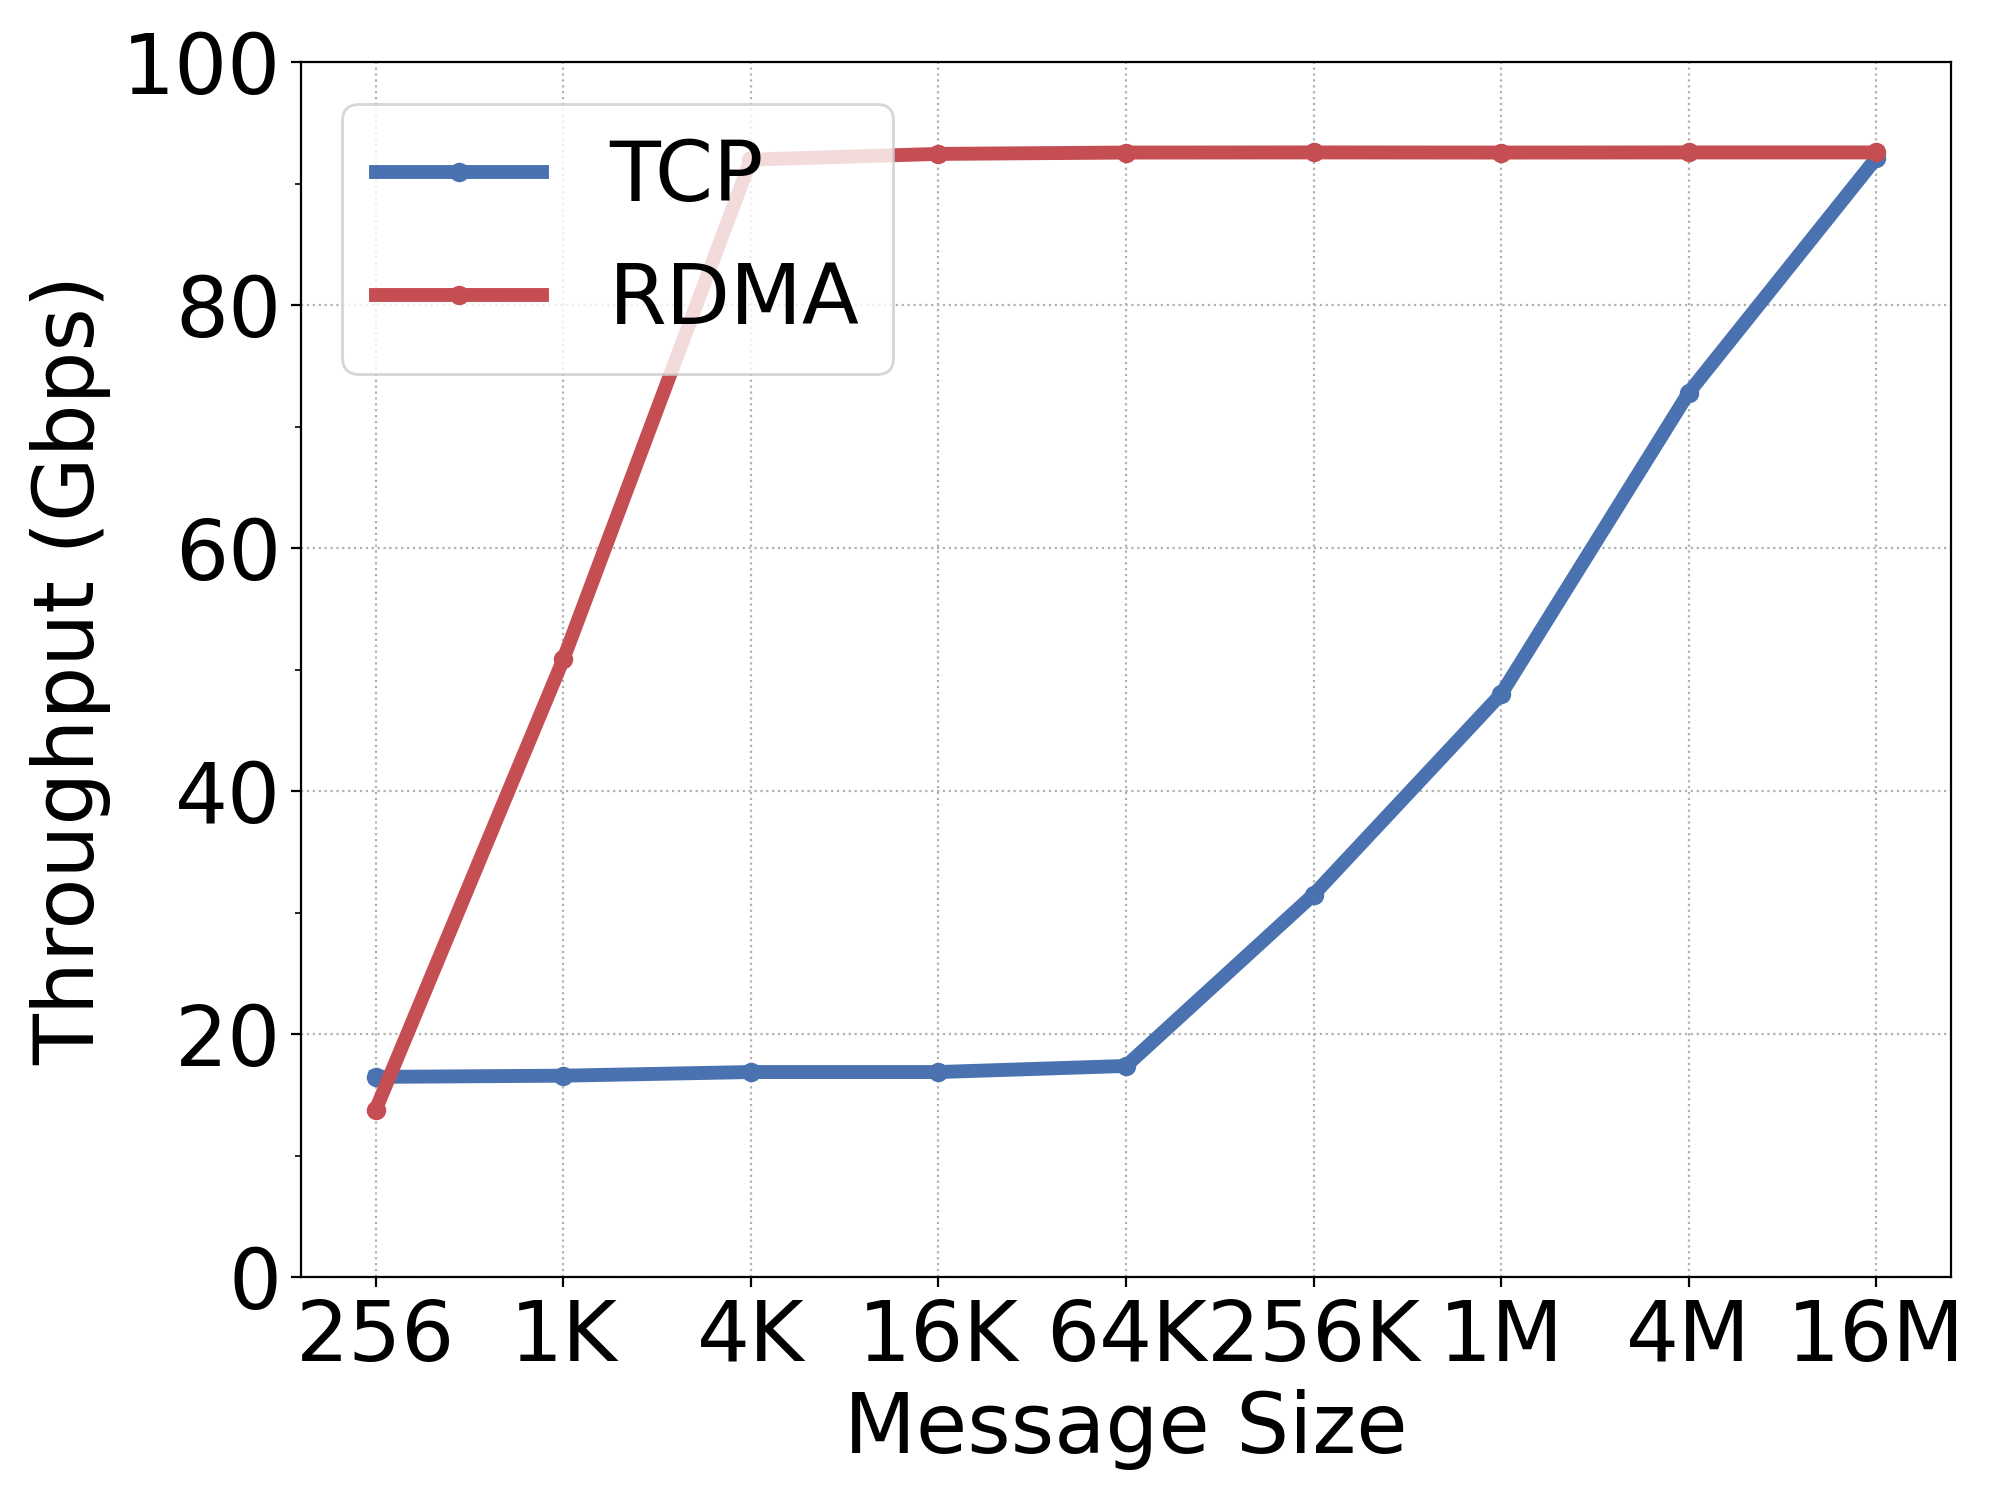
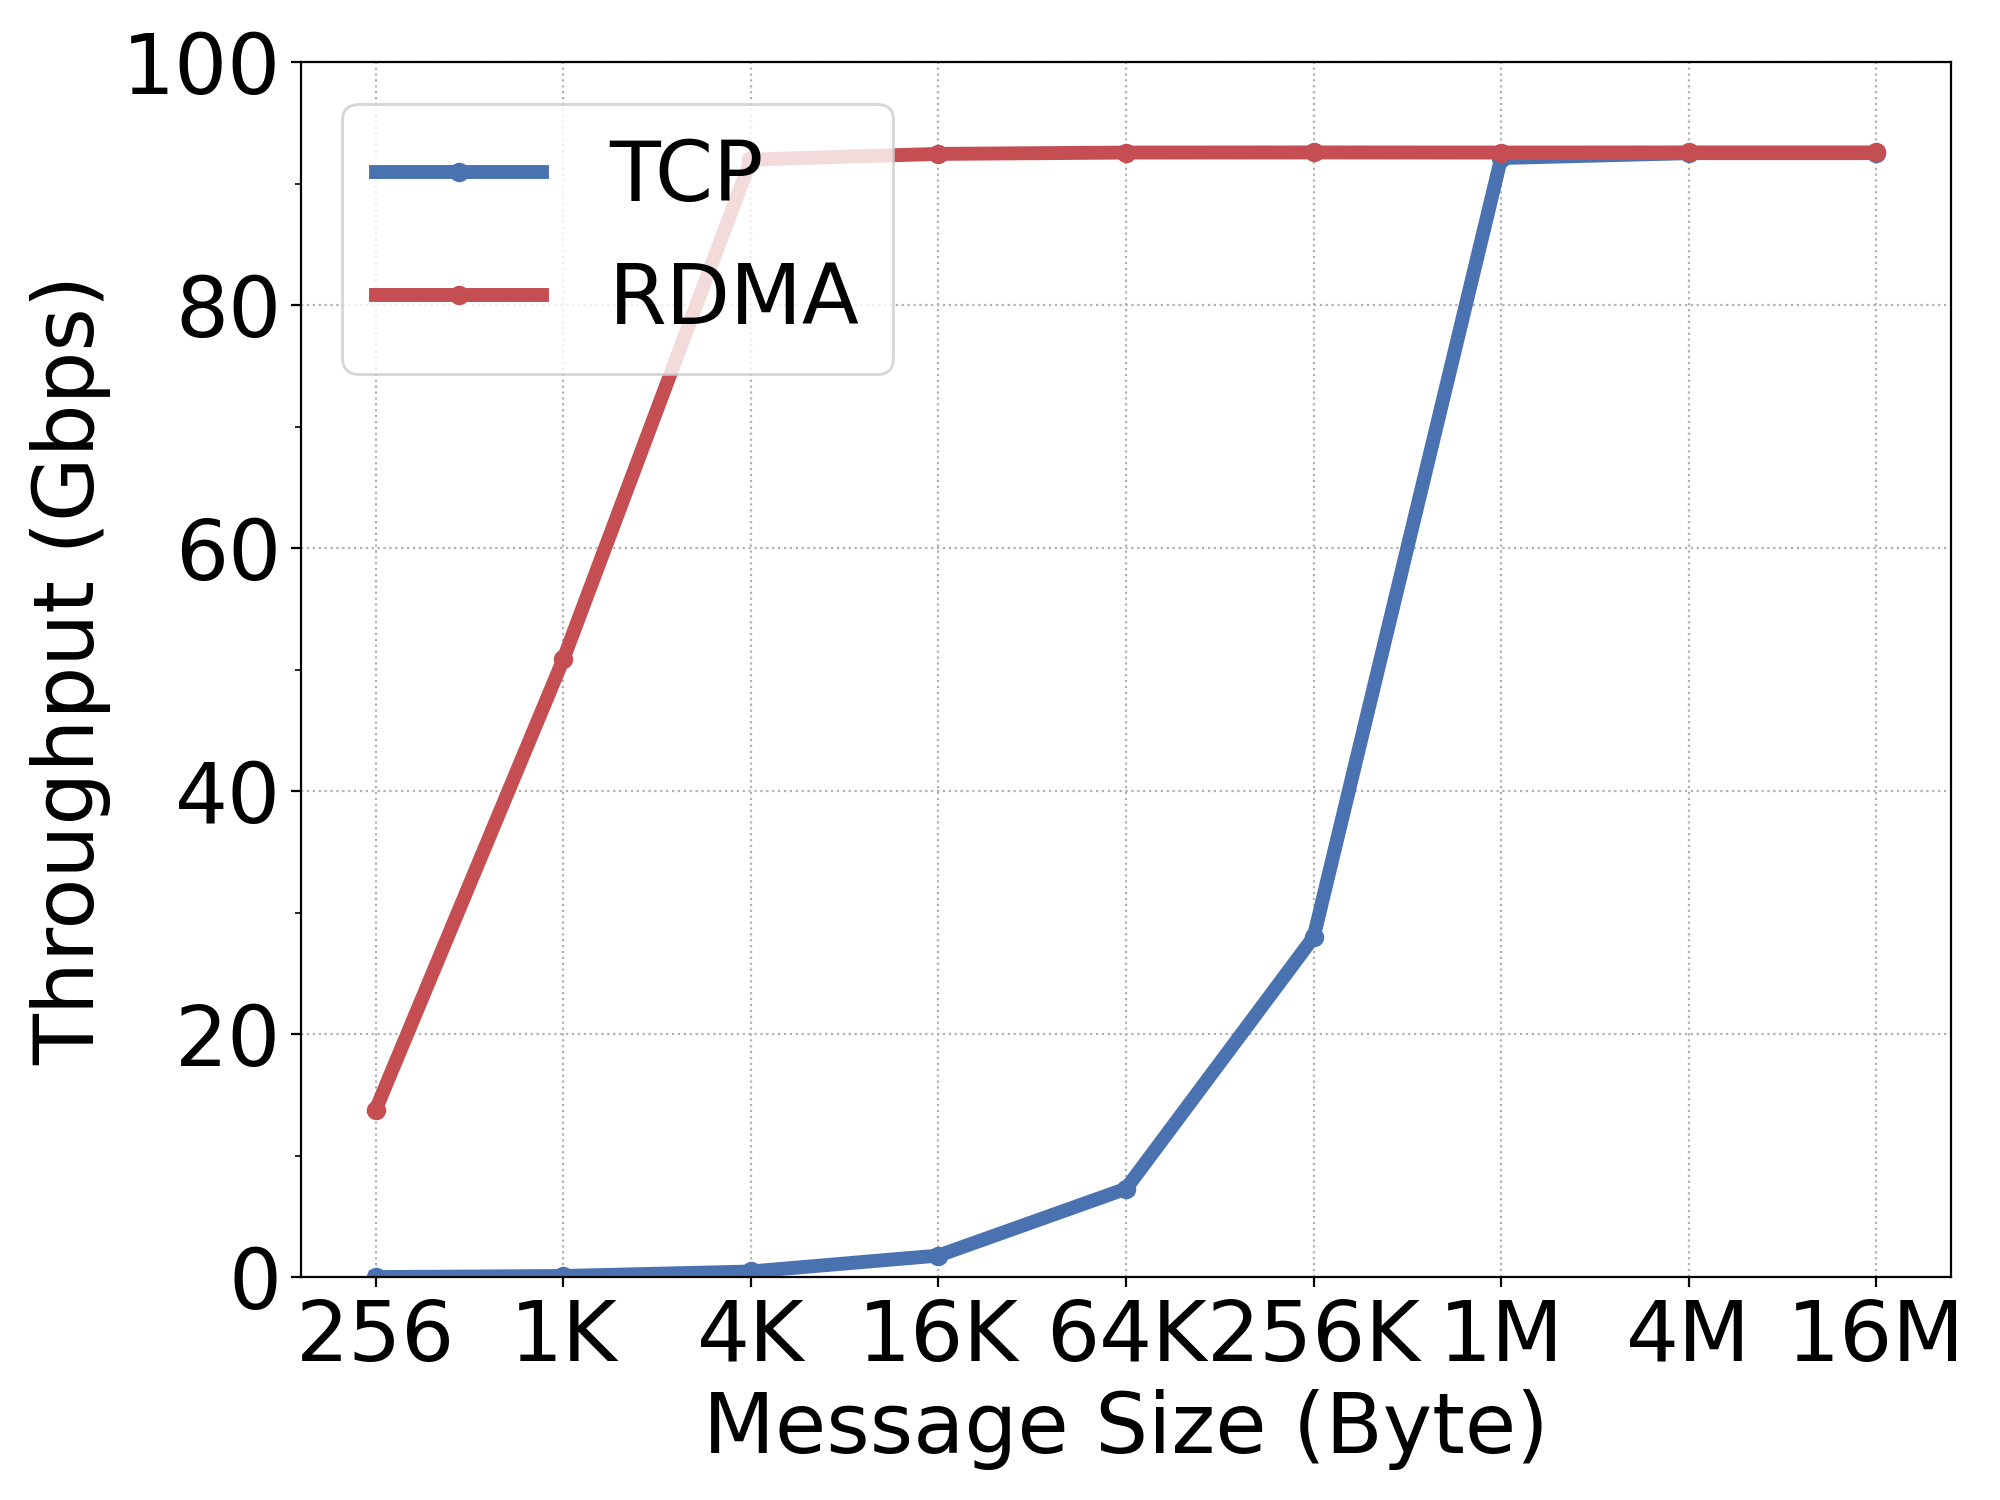
Update figure

diff --git a/tcp_rdma_performance_comparison/tcp_rdma_cpu_utilization.py b/tcp_rdma_performance_comparison/tcp_rdma_cpu_utilization.py
@@ -2,6 +2,7 @@
 # coding=utf-8
 
 import sys
+import numpy as np
 import matplotlib.pyplot as plt
 from matplotlib.ticker import MultipleLocator, FormatStrFormatter
 
@@ -16,9 +17,9 @@ xmajorLocator   = MultipleLocator(10)
 xmajorFormatter = FormatStrFormatter('%1d')
 xminorLocator   = MultipleLocator(5)
 
-ymajorLocator   = MultipleLocator(20)
-ymajorFormatter = FormatStrFormatter('%1d')
-yminorLocator   = MultipleLocator(10)
+ymajorLocator   = MultipleLocator(1)
+ymajorFormatter = FormatStrFormatter('%.1f')
+yminorLocator   = MultipleLocator(0.5)
 
 ax = plt.subplot(111)
 
@@ -34,18 +35,27 @@ ax.yaxis.set_minor_locator(yminorLocator)
 ax.xaxis.grid(True, which='major', ls='dotted')
 ax.yaxis.grid(True, which='major', ls='dotted')
 
-plt.ylim(0, 100)
+plt.ylim(0, 10)
 # plt.xlim(128, 65536*2)
 
 x_loc = [256, 1024, 4096, 16384, 65536, 65536*4, 65536*16, 65536*64, 65536*256]
 x_value = ["256", "1K", "4K", "16K", "64K", "256K", "1M", "4M", "16M"]
 
-y_tcp = [36.7, 37.2, 37.1, 36.9, 36.8, 37, 36.8, 36.6, 36]
-y_rdma = [0.8, 0.82, 0.8, 0.8, 0.8, 0.8, 0.81, 0.82, 0.82]
+y_tcp_c =  [  11, 11.5, 11.6,  11.5,  11.4,   11.6, 11.5, 11.5, 11.5]
+y_tcp_s =  [ 703,  705,  710,   712,   713,    711,  712,  713, 714]
+y_rdma_c =  [0.8, 0.82,  0.8,   0.8,   0.8,    0.8, 0.81, 0.82, 0.82]
+y_rdma_s =  [  0,    0,    0,     0,     0,      0,    0,    0,    0]
+y_tcp_c = np.divide(y_tcp_c, 128)
+y_tcp_s = np.divide(y_tcp_s, 128)
+y_rdma_c = np.divide(y_rdma_c, 128)
+y_rdma_s = np.divide(y_rdma_s, 128)
 
-plt.plot(x_loc, y_tcp, marker='o', label="TCP")
-plt.plot(x_loc, y_rdma, marker='o', label="RDMA")
+plt.plot(x_loc, y_tcp_c, marker='o', label="TCP Client")
+plt.plot(x_loc, y_tcp_s, marker='o', label="TCP Server")
+plt.plot(x_loc, y_rdma_c, marker='o', label="RDMA Client")
+plt.plot(x_loc, y_rdma_s, marker='o', label="RDMA Server")
 plt.xscale('log', base=2)
+plt.yscale('symlog', base=2)
 plt.xticks(x_loc, x_value)
 
 plt.legend(loc='upper left', fontsize=plot_config.font_size, shadow=False)
@@ -55,8 +65,8 @@ for label in ax.xaxis.get_ticklabels():
 for label in ax.yaxis.get_ticklabels():
     label.set_fontsize(plot_config.font_size)
 
-plt.xlabel('Message Size', fontsize=plot_config.font_size)
-plt.ylabel('CPU Utilization(%)', fontsize=plot_config.font_size)
+plt.xlabel('Message Size (Byte)', fontsize=plot_config.font_size)
+plt.ylabel('CPU Utilization (%)', fontsize=plot_config.font_size)
 
 plt.tight_layout(rect=[0, 0, 1, 1])
 plt.subplots_adjust(wspace=0, hspace=0.05)

diff --git a/tcp_rdma_performance_comparison/tcp_rdma_throughput.py b/tcp_rdma_performance_comparison/tcp_rdma_throughput.py
@@ -40,8 +40,8 @@ plt.ylim(0, 100)
 x_loc = [256, 1024, 4096, 16384, 65536, 65536*4, 65536*16, 65536*64, 65536*256]
 x_value = ["256", "1K", "4K", "16K", "64K", "256K", "1M", "4M", "16M"]
 
-y_tcp = [16.5, 16.6, 16.9, 16.9, 17.4, 31.5, 48, 72.8, 92.1]
-y_rdma = [13.8, 50.85, 91.97, 92.44, 92.55, 92.56, 92.55, 92.56, 92.56]
+y_tcp =   [ 0.03, 0.12, 0.49,   1.8,   7.3,     28, 92.1, 92.5, 92.5]
+y_rdma =  [ 13.8,50.85,91.97, 92.44, 92.55,  92.56,92.55,92.56, 92.56]
 
 plt.plot(x_loc, y_tcp, marker='o', label="TCP")
 plt.plot(x_loc, y_rdma, marker='o', label="RDMA")
@@ -55,7 +55,7 @@ for label in ax.xaxis.get_ticklabels():
 for label in ax.yaxis.get_ticklabels():
     label.set_fontsize(plot_config.font_size)
 
-plt.xlabel('Message Size', fontsize=plot_config.font_size)
+plt.xlabel('Message Size (Byte)', fontsize=plot_config.font_size)
 plt.ylabel('Throughput (Gbps)', fontsize=plot_config.font_size)
 
 plt.tight_layout(rect=[0, 0, 1, 1])
